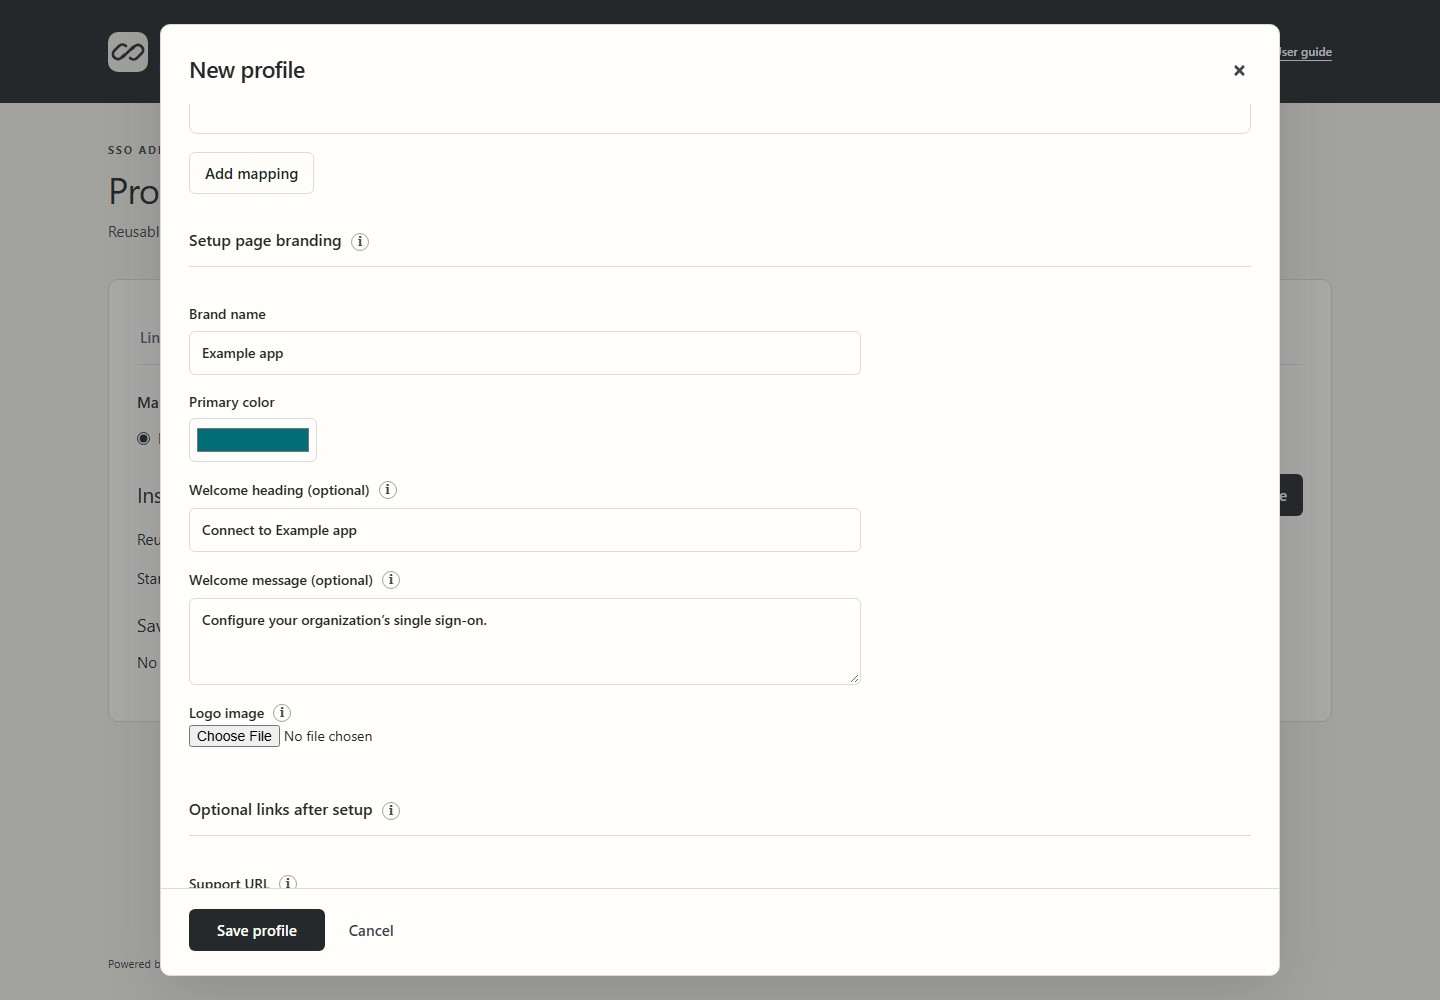
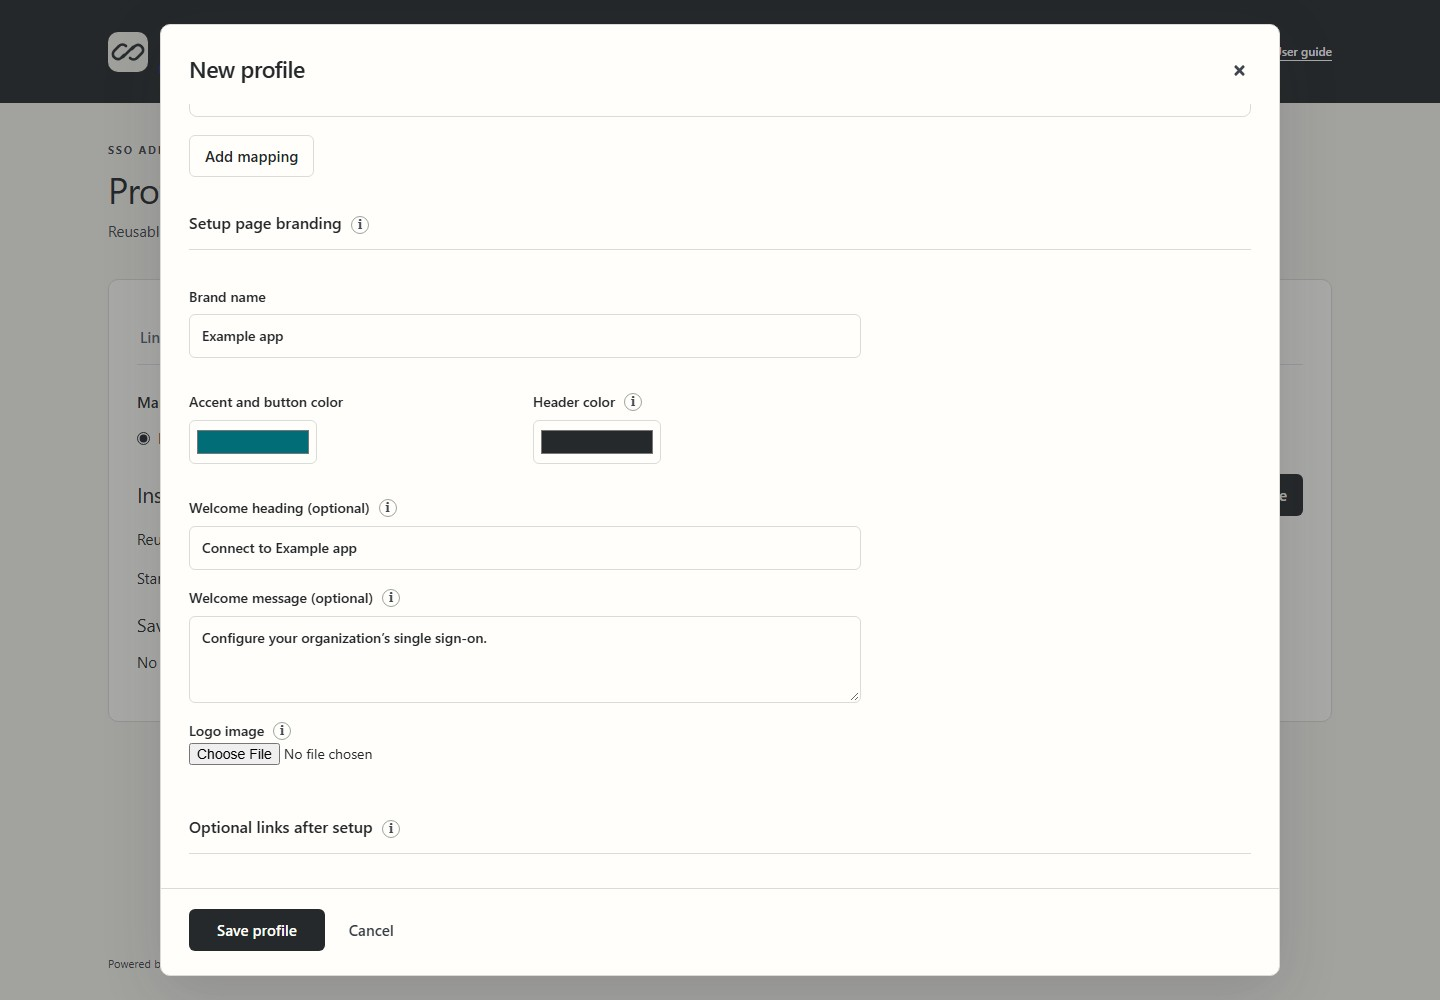
Document independent SSO branding colors and session lifetime

diff --git a/keycloak-sso/index.html b/keycloak-sso/index.html
@@ -89,6 +89,7 @@
             <p class="role-label"><span aria-hidden="true">●</span> Customer's IdP administrator · screen 1 of 4</p>
             <h3 id="register-heading">Create the application at your provider.</h3>
             <p>Open the invitation and choose <strong>Custom OIDC</strong> or <strong>Custom SAML</strong>. The invitation determines which buttons are available.</p>
+            <p>Opening consumes the one-time ticket and starts a fixed browser session, 30 minutes by default. The invitation has a separate expiry date. Reloading does not extend the session; after it expires, request a new invitation.</p>
             <div data-protocol="oidc"><p>Copy the exact <strong>Redirect URI / callback URL</strong> into a confidential OIDC application at your provider. Use Authorization Code; Keycloak exchanges the code on the server.</p><p>Save the application and keep its client ID and credential ready for the next screen.</p></div>
             <div data-protocol="saml"><p>Copy both the <strong>Assertion consumer service (ACS) URL</strong> and <strong>SP entity ID / Audience URI</strong> into a SAML application at your provider.</p><p>Both values are available before you enter the provider configuration. Keep its metadata URL ready for the next screen.</p></div>
             <aside class="stage-aside"><strong>Register the exact values.</strong> The callback belongs to this connection. A realm address alone does not replace it.</aside>
@@ -152,7 +153,7 @@
             <p>Sign in twice with the same identity-provider account. Both tests must return the same stable account ID; the second test asks for fresh authentication.</p>
             <p>A different account or changing ID fails the comparison. The same test pair checks the connection when several organizations share it.</p>
             <p><strong>4. Test sign-in.</strong> Run the first test, then the second when required. A different account or missing required claim is explained on this page. Correct the settings or restart the check, then test again. Closing the sign-in window lets you retry.</p>
-            <p><strong>Back</strong> preserves edits while you review earlier steps. <strong>Cancel editing</strong> restores the saved draft. Saving changes requires fresh sign-in tests.</p>
+            <p><strong>Back</strong> preserves edits while you review earlier steps. <strong>Cancel editing</strong> restores the saved draft. Saving changes clears earlier test results. Complete the tests required by the invitation before activation.</p>
             <p>A <strong>draft</strong> is the saved test connection. Activation makes it live; an update keeps the current connection in use until you apply the tested changes.</p>
             <a class="text-link supporting-link" href="assets/test-sign-in-current.jpg" data-enlarge data-caption="Example provider — fresh sign-in by the same account" target="_blank" rel="noopener">See the sign-in window <span aria-hidden="true">↗</span></a>
             <aside class="stage-aside"><strong>Tests do not create users.</strong> The checks confirm a repeatable provider identity. They leave Keycloak users and linked accounts unchanged.</aside>
@@ -274,8 +275,8 @@
         </article>
       </div>
       <p class="settings-note">For new connections, missing or unapproved required profile fields prevent link creation; unavailable optional defaults are omitted. Update links retain their profile’s existing mapping rules. Optional Support and Return URLs inherit independently from instance settings and appear after successful setup; a profile can override either destination.</p>
-      <article id="branding"><h3>Brand the customer setup page.</h3><p>In the profile editor, <strong>Setup page branding</strong> sets your brand name, uploaded logo, primary color and optional welcome heading/message. Use an instance profile across realms, or a realm profile for different branding. Each invitation keeps its saved profile version; changes apply to new invitations. Actual sign-in pages keep the identity provider’s theme.</p>
-        <figure class="product-screen"><div class="screen-toolbar"><span>Profile editor / Setup page branding</span><a href="assets/setup-page-branding-current.jpg" class="enlarge-link" data-enlarge data-caption="Profile branding — name, color, logo and optional welcome copy" target="_blank" rel="noopener">View full screenshot ↗</a></div><div class="screen-scroll"><img src="assets/setup-page-branding-current.jpg" width="1440" height="1000" alt="Profile editor with brand name, primary color, optional welcome heading and message, and a logo upload." loading="lazy"></div><figcaption>Reusable branding · fixed technical instructions</figcaption></figure>
+      <article id="branding"><h3>Brand the customer setup page.</h3><p>In the profile editor, <strong>Setup page branding</strong> sets your brand name, uploaded logo, separate accent/button and header colors, and optional welcome heading/message. Header text adjusts for readability. Choose a logo that suits the header color; transparent PNGs display without a background box. Use an instance profile across realms, or a realm profile for different branding. Each invitation keeps its saved profile version; changes apply to new invitations. Actual sign-in pages keep the identity provider’s theme.</p>
+        <figure class="product-screen"><div class="screen-toolbar"><span>Profile editor / Setup page branding</span><a href="assets/setup-page-branding-current.jpg?v=20261103-colors" class="enlarge-link" data-enlarge data-caption="Profile branding — name, colors, logo and optional welcome copy" target="_blank" rel="noopener">View full screenshot ↗</a></div><div class="screen-scroll"><img src="assets/setup-page-branding-current.jpg?v=20261103-colors" width="1440" height="1000" alt="Profile editor with brand name, separate accent/button and header colors, optional welcome heading and message, and a logo upload." loading="lazy"></div><figcaption>Reusable branding · fixed technical instructions</figcaption></figure>
       </article>
     </section>
 
